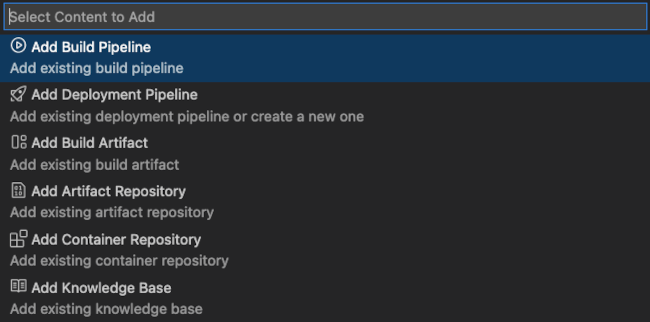
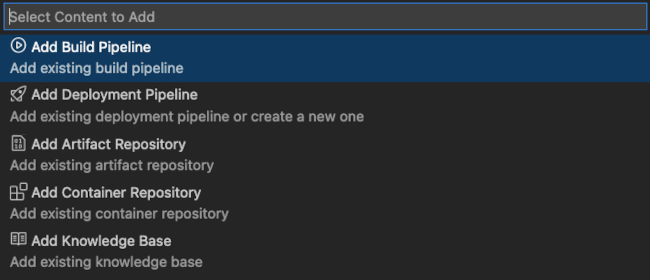
Restructured & updated OCI DevOps README.MD

Changed region(s): [[0.0, 0.0, 1.0, 1.0]]

diff --git a/oci-devops/README.MD b/oci-devops/README.MD
@@ -1,131 +1,172 @@
 # OCI DevOps Tools
 
-Enables easy integration with the [Oracle Cloud Infrastructure (OCI) DevOps](https://www.oracle.com/devops/devops-service/) service. The DevOps service can host your source code in Oracle Cloud Infrastructure and build, then deploy, your projects in hosted CI/CD pipelines.
+## Features
 
-The extension creates a project in the DevOps service, sets up a source code repository, as well as build and deployment pipelines, enabling you to easily transition from local to cloud-based development and deployment.
+OCI DevOps Tools extension for VS Code provides features and tools to move and host a local Java project in the [Oracle Cloud Infrastructure (OCI) DevOps service](https://www.oracle.com/devops/devops-service/), and to perform cloud-side builds and deployments using the CI/CD pipelines.
 
-## Supported Projects and Platforms
-Supported project types:
-- Maven & Gradle for following technologies: 
-  - Micronaut
-  - Graal Cloud Native (Oracle Cloud Infrastructure support required)
-  - SpringBoot 3.0.5 (GraalVM Native Support dependency must be enabled in project)
+* Creates and configures an OCI DevOps project from a local Java project
+* Enables triggering remote build and deployment pipelines from VS Code
+* Deploys the built project containers to an Oracle Kubernetes Engine (OKE)
+* Performs audits for vulnerabilities in Java project's third-party libraries
 
-Supported GraalVM versions:
-- GraalVM 22.x
-- GraalVM 23.0, Java 17
+## Supported Java Projects
+* Micronaut (use [GraalVM Tools for Micronaut](https://marketplace.visualstudio.com/items?itemName=oracle-labs-graalvm.micronaut) extension to create a new Micronaut project)
+* Graal Cloud Native (use [Graal Cloud Native Tools](https://marketplace.visualstudio.com/items?itemName=oracle-labs-graalvm.gcn) extension to create a new GCN project)
+* SpringBoot (GraalVM Native Support dependency must be enabled in project)
 
-## Quickstart
-
-If you are working with a Graal Cloud Native (or Spring Boot) project, the extension will set up build pipelines to build containers for your Java-based application and native executable. The extension will also create deployment pipelines that will deploy these containers to an OKE cluster.
-
-If you have a standard Maven or Gradle project, you can still use this extension to build
-your JAR files in the cloud on the Oracle Cloud Infrastructure DevOps service, but as of now deployment pipelines are not created.
-
-For more information, see [Graal Cloud Native](https://graal.cloud/) and [OCI DevOps service](https://www.oracle.com/devops/devops-service/).
-
-To get started, you will need:
-
-- To install the extension, you require
-- A Java installation (JDK 17+)
-- An [Oracle Cloud account](https://www.oracle.com/cloud/free/) (a free account is OK)
-- A [configured _.oci/config_ file](https://docs.oracle.com/iaas/Content/API/Concepts/sdkconfig.htm) to access Oracle Cloud Infrastructure services
-- An [API Key](https://docs.oracle.com/en/learn/generate_ssh_keys/index.html)
-- The [Oracle Cloud Infrastructure CLI](https://docs.oracle.com/iaas/Content/API/SDKDocs/cliinstall.htm)
-- An [OKE cluster](https://docs.oracle.com/iaas/Content/ContEng/Tasks/contengcreatingclusterusingoke.htm). OKE is Oracle Cloud Infrastructure‘s managed Kubernetes service.
-
-
-Having done the above, and with a [Graal Cloud Native](https://graal.cloud/), or a [Spring Boot](https://spring.io), project, you can
-can now create an Oracle Cloud Infrastructure DevOps project.
-
-### <a name='create-devops-project'></a>Create DevOps Project
-
-1. Open the **OCI DEVOPS** panel in VSCode Explorer and click the **Create OCI DevOps Project** button
-
-    ![devops-ci-jobs.png](images/create_devops_prj.png)
-
-2. You will be guided through the process of creating an Oracle Cloud Infrastructure DevOps project:
-    - If you are using multiple Oracle Cloud Infrastructure profiles, you will first need to select the Oracle Cloud Infrastructure profile that you wish to use
-    - Select your compartment in Oracle Cloud Infrastructure. Your DevOps project will be created here.
-    - Confirm the DevOps project name. This must be unique to the tenancy.
-    - Depending on your setup, you might be asked to:
-        - Confirm the SSH keys for git operations and add the Oracle Cloud Infrastructure DevOps git server to your SSH **config** and **known_hosts** file.
-        - Select an existing OKE cluster on Oracle Cloud Infrastructure, or create a new one using the [OKE Quick Create](https://docs.oracle.com/iaas/Content/ContEng/Tasks/contengcreatingclusterusingoke_topic-Using_the_Console_to_create_a_Quick_Cluster_with_Default_Settings.htm#create-quick-cluster) action.
-
-            ![oke_quick_create.png](images/oke_quick_create.png)
-
-    - When the new OKE cluster is created, configure local access to the OKE Kubernetes cluster using the `VNC-Native Public Endpoint`. This is done using the Oracle Cloud Infrastructure CLI and you may have already done this in the prerequisite steps.
-
-        ![set_oke_access.png](images/set_oke_access.png)
-
-Once you create a DevOps project, the following build targets now become available from within VS Code:
-
-![devops-ci-jobs.png](images/devops-ci-jobs.png)
-
-You can run these build targets, which will run in the Cloud in the Oracle Cloud Infrastructure DevOps service and not locally, by clicking on the triangle run icon.
-
-### <a name='default-pipelines-setup'></a>Default Pipelines Setup
-
-* **Build OCI Native Executable Container**: Packages the application as a native executable in a container image.
-* **Build OCI JVM Container**: Packages the application as a JVM-based container image.
-
-Once built, the container images can be pulled by clicking on the cloud icon, which provides the command required to pull the containers locally.
-
-The build specification files for each pipeline are stored in _.devops/_. If you update the build specification file, commit and push the change to the DevOps-hosted repository, the build pipelines will be updated to reflect this change. It should be noted that the build pipelines run on custom sized build runners in order to ensure there is sufficient memory to build all native executables using GraalVM Native Image. These can be customized within the Oracle Cloud Console.
-
-## <a name='oci-kubernetes-deployment-with-oke'></a>OCI Kubernetes deployment with OKE
-
-When the build pipeline succeeds, the container image can be deployed to OKE using **Deploy OCI Native Executable Container to OKE**
-deployment pipeline. When complete, the application can be tested in a browser by selecting the action **Open in Browser** for Deploy pipeline. This will
-set up port forwarding using your local `kubectl`.
-
-![Open OKE application in local browser](images/oke_test_app.png)
-
-It will perform **kubectl** port forwarding from OKE to localhost as indicated by the VSCode status bar.
-
-![kubectl port forwarding active](images/kubectl_port_fwd.png).
-
-## <a name='project-dependencies-vulnerability-audits'></a>Project Dependencies Vulnerability Audits
-
-The extension also performs project audits for vulnerabilities in third-party project libraries; supported project types are Maven and Gradle. Project Audits require an Oracle Cloud Infrastructure account (_.oci/config_ file) and uses an Oracle Cloud Infrastructure ADM Knowledgebase which retrieves data from the nvd.nist.gov database.
-Just select the **Run Project Audit** action in the **Java Projects** panel to check for vulnerabilities in an open project. If a project contains a vulnerable dependency, it is shown in the **PROBLEMS** view.
-
-![Project Audits action and reported errors](images/project_audit.png)
-
-When your project is moved into the DevOps service in Oracle Cloud Infrastructure, it is scanned for vulnerabilities by the [Application Dependency Management service](https://docs.oracle.com/iaas/Content/application-dependency-management/home.htm).
-The results of this audit can be displayed within the **OCI DevOps** services panel by clicking on the plus icon and selecting **Add Knowledge Base** from the displayed menu.
-
-![Add Knowledge Base](images/add-knowledge_base.png)
-
-## <a name='adding-more-oci-devops-services'></a>Adding more Oracle Cloud Infrastructure DevOps Services
-The **OCI DEVOPS SERVICES** feature is not limited by the four jobs listed in the previous step. There are many more: You can
-add an existing build pipeline, a build artifact, a container registry, etc.
-
-![more-ci-jobs.png](images/more-ci-jobs.png)
-
-
-## <a name='prerequisites'></a>Prerequisites
-
-- [Extension Pack for Java](https://marketplace.visualstudio.com/items?itemName=vscjava.vscode-java-pack) Microsoft extension
-- [Kubernetes](https://marketplace.visualstudio.com/items?itemName=ms-kubernetes-tools.vscode-kubernetes-tools) Microsoft extension
+## Requirements
+* [Extension Pack for Java](https://marketplace.visualstudio.com/items?itemName=vscjava.vscode-java-pack) Microsoft extension
+* [Kubernetes](https://marketplace.visualstudio.com/items?itemName=ms-kubernetes-tools.vscode-kubernetes-tools) Microsoft extension
+* [GraalVM](https://www.graalvm.org/) 22.x, 23.0 Java 17
+* Git version control system
+* A Docker-API compatible container runtime such as Rancher Desktop or Docker
 
-> Note: The extension depends on the [Apache NetBeans Language Server](https://marketplace.visualstudio.com/items?itemName=ASF.apache-netbeans-java), [GraalVM Extension Pack for Java](https://marketplace.visualstudio.com/items?itemName=oracle-labs-graalvm.graalvm-pack). (VS Code installs these required extensions for you.)
+> Note: The extension depends on the [Apache NetBeans Language Server](https://marketplace.visualstudio.com/items?itemName=ASF.apache-netbeans-java), [GraalVM Extension Pack for Java](https://marketplace.visualstudio.com/items?itemName=oracle-labs-graalvm.graalvm-pack). VS Code installs these required extensions for you.
 
-## <a name='proxy-setup'></a>Proxy Setup
-When working behind firewall over a proxy then VSCode Proxy has to be set ON. In VSCode **Settings** set **Http: Proxy Support** to **ON**. Subsequently when working without proxy set this **OFF**.
+<details>
+<summary>Proxy Setup</summary>
 
-![HTTP Proxy in VSCode](images/proxy.png)
+When working behind a proxy server then VSCode Proxy has to be set ON. In VSCode **Settings** set **Http: Proxy Support** to **ON**.
 
-Many tools used to work on Java projects, such as Maven, Gradle, `kubectl`, and `docker` (if used), may require proxy configuration.
+Many tools used to work on Java projects, such as Git, Maven, Gradle, `kubectl`, and `docker` (if used), may require proxy configuration as well.
 
-## <a name='known-issues'></a>Known Issues
-- Micronaut 4.0.0 Gradle project has known [issue #781](https://github.com/micronaut-projects/micronaut-gradle-plugin/issues/781) when building GraalVM Native images. This issue was already fixed in Micronaut 4.0.1 AOT build plugin. Open `build.gradle` file from your project and update aot plugin to version 4.0.1, e.g. `id("io.micronaut.aot") version "4.0.1"`. Then push updated `build.gradle` to OCI git or perform OCI project deploy.
+![Screenshot](images/proxy.png)
 
-## <a name='provide-feedback-or-seek-help'></a>Provide Feedback or Seek Help
+</details>
+
+## Getting Started
+<details>
+<summary>Configure OCI and OKE</summary>
+
+### Configure OCI
+* [Create Oracle Cloud account](https://www.oracle.com/cloud/free/), free tier is supported
+* [Create .oci/config](https://docs.oracle.com/en-us/iaas/Content/API/Concepts/sdkconfig.htm) cloud access configuration file
+* [Install OCI CLI](https://docs.oracle.com/en-us/iaas/Content/API/Concepts/cliconcepts.htm) needed for the OKE local access
+
+### Configure OKE
+* [Create and setup local access to an OKE cluster](https://docs.oracle.com/en-us/iaas/Content/ContEng/Tasks/contengcreatingclusterusingoke_topic-Using_the_Console_to_create_a_Quick_Cluster_with_Default_Settings.htm#create-quick-cluster), Oracle's managed Kubernetes service
+  * Use the Quick create option in the Create cluster wizard
+
+  ![OKE Quick Create](images/oke_quick_create.png)
+
+  * Configure local access to the OKE Kubernetes cluster using the `VNC-Native Public Endpoint`. This is done using the Oracle Cloud Infrastructure CLI and you may have already done this in the prerequisite steps.
+  
+  ![Set OKE Access](images/set_oke_access.png)
+
+</details>
+
+<details>
+<summary>Create OCI DevOps Project</summary>
+
+* Open a local folder containing a supported Java project
+* In the Explorer activity, find the OCI DevOps view and click the Create OCI DevOps Project button
+* Confirm pushing the local sources to a remote OCI code repository
+* Choose the OCI profile to be used for OCI access if multiple profiles are defined
+* Select target OCI Compartment for the project
+* Select an existing OKE Cluster or create a new one if asked to do so, means there's no OKE Cluster available in the selected Compartment
+* Provide name for the DevOps Project to be created, must be unique within the Tenancy
+* If requested, confirm the SSH keys for git operations and add the Oracle Cloud Infrastructure DevOps git server to your SSH **config** and **known_hosts** file.
+* Wait for the DevOps Project and the related resources to be created
+
+![Create OCI DevOps Project](images/create_devops_prj.png)
+
+</details>
+
+<details>
+<summary>Build and Deploy Project Artifacts</summary>
+
+Once an OCI DevOps Project is created, the OCI DevOps view is populated by items representing remote build and deployment pipelines for each project container artifact.
+
+To build a project container artifact, invoke the Run Build Pipeline action for the appropriate build pipeline item. The remote build pipeline is started and VS Code displays its state and build log. After a successful build, either use the Pull Container Image action to pull the resulting container artifact locally, or proceed to deploying the container to the OKE.
+
+To deploy a built container artifact, invoke the Run Deployment Pipeline action for the appropriate deployment pipeline item. The remote deployment pipeline is started and VS Code displays its state and deployment log. After a successful deployment, use the Open In Browser action to set up a port forward from the OKE and open the deployed application in web browser.
+
+![Build and Deployment Pipelines](images/oke_test_app.png)
+
+</details>
+
+<details>
+<summary>Perform Vulnerability Audits</summary>
+
+As soon as a new DevOps Project is created, an audit for vulnerabilities in third-party project libraries is automatically performed. The audit can also be invoked on demand using the VSCode **Command Palette**, **OCI DevOps: Audit Project Vulnerability** command, or from a Java Projects view using the Run Project Audit action.
+
+Vulnerability audits can also be performed for the Maven and Gradle Java projects not added to an OCI DevOps Project. Use VSCode **Settings**, **Oci > Devops: Shared Knowledge Base Ocid** and **Oci > Devops: Shared Knowledge Base Profile** to configure the shared Knowledge Base for performing these audits.
+
+![Screenshot](images/project_audit.png)
+
+</details>
+
+<details>
+<summary>Display Related OCI DevOps Resources</summary>
+
+Initially only items for build and deployment pipelines related to project container artifacts are displayed in the OCI DevOps view. Additional resources can be manually added using the Add OCI DevOps Resource... action displayed in the view caption.
+
+### Build Pipelines
+
+These additional build pipelines are preconfigured for the Java project and can be manually added to the OCI DevOps view:
+* Build Fat Jar - builds a single application .jar file
+* Build Native Executable - builds a Linux x86 native executable of the application
+
+Also externally created build pipelines can be added and controlled using this action.
+
+### Deployment Pipelines
+
+All preconfigured deployment pipelines are visible in the OCI DevOps view by default. Externally created build pipelines can be added and controlled using this action. Also, a new deployment pipeline can be created and added to the view, deploying a container to the OKE.
+
+### Artifact Repository
+
+An artifact repository configured for the DevOps Project can be added to display the non-container artifacts built for the project. These actions are available for an Artifact Repository:
+* Display non-container artifacts, incl. build date and size
+* Download built non-container artifacts locally
+
+### Container Repository
+
+Container repositories configured for the DevOps Project can be added to display the container images built for the project. These actions are available for a Container Repository:
+* Display container repository and the images, incl. build date
+* Pull container images locally
+
+### Knowledge Base
+
+A knowledge base configured for the DevOps Project can be added to display the vulnerability audits performed for the project. These actions are available for a Knowledge Base:
+* Display vulnerability reports, incl. audit date and result
+* Shortcut to a detailed online report
+
+![Screenshot](images/more-ci-jobs.png)
+</details>
+
+<details>
+<summary>Open OCI DevOps Resources in Oracle Cloud Console</summary>
+
+Whenever a DevOps resource has a dedicated view in the Oracle Cloud Console, it can be easily displayed there using the Open in Oracle Cloud Console action available for the appropriate item in the OCI DevOps view.
+
+</details>
+
+## Documentation
+
+A detailed documentation on the OCI DevOps Tools extension is available [here](https://www.graal.cloud/gcn/get-started/using-gcn-vscode-tools/).
+
+## Settings
+
+| Name | Description | Default Value |
+|---|---|---|
+| `oci.devops.showToolsPage` | Show OCI DevOps Tools page on extension activation. | `true` |
+| `oci.devops.sharedKnowledgeBaseOcid` | OCID of the shared knowledge base for audits of Java projects not added to an OCI DevOps project. | ` ` |
+| `oci.devops.sharedKnowledgeBaseProfile` | OCI profile to access the shared knowledge base for audits of Java projects not added to an OCI DevOps project. | ` ` |
+| `oci.devops.bypassDeliverArtifactsStage` | Bypass Deliver artifacts stage in Build pipelines producing Generic artifacts. | `true` |
+| `oci.devops.pushLocalSourcesToOciConfirmedPermanently` | Set to `false` to restore confirmations before pushing local sources to a remote OCI code repository. | `false` |
+| `oci.devops.startBuildPipelineUsingCustomShapeConfirmedPermanently` | Set to `false` to restore confirmations before starting build pipelines using a custom build runner shape. | `false` |
+
+## Provide Feedback or Seek Help
 
 * [Request a feature](https://github.com/graalvm/vscode-extensions/issues/new?labels=enhancement)
 * [File a bug](https://github.com/graalvm/vscode-extensions/issues/new?labels=bug)
 
-### <a name='privacy-policy'></a>Privacy Policy
+## Contributing
 
-Read the [Oracle Privacy Policy](https://www.oracle.com/legal/privacy/privacy-policy.html) to learn more.
+To submit pull requests to vscode-extensions, you need to sign the [Oracle Contributor Agreement](http://www.oracle.com/technetwork/community/oca-486395.html).
+
+Project members with write access to the repository will determine and assign an appropriate [Assignee](https://help.github.com/articles/assigning-issues-and-pull-requests-to-other-github-users/) for the pull request. The assignee will work with the pull request owner to address any issues and then merge the pull request.
+
+## Release Notes
+
+Refer to [CHANGELOG](CHANGELOG.md)
